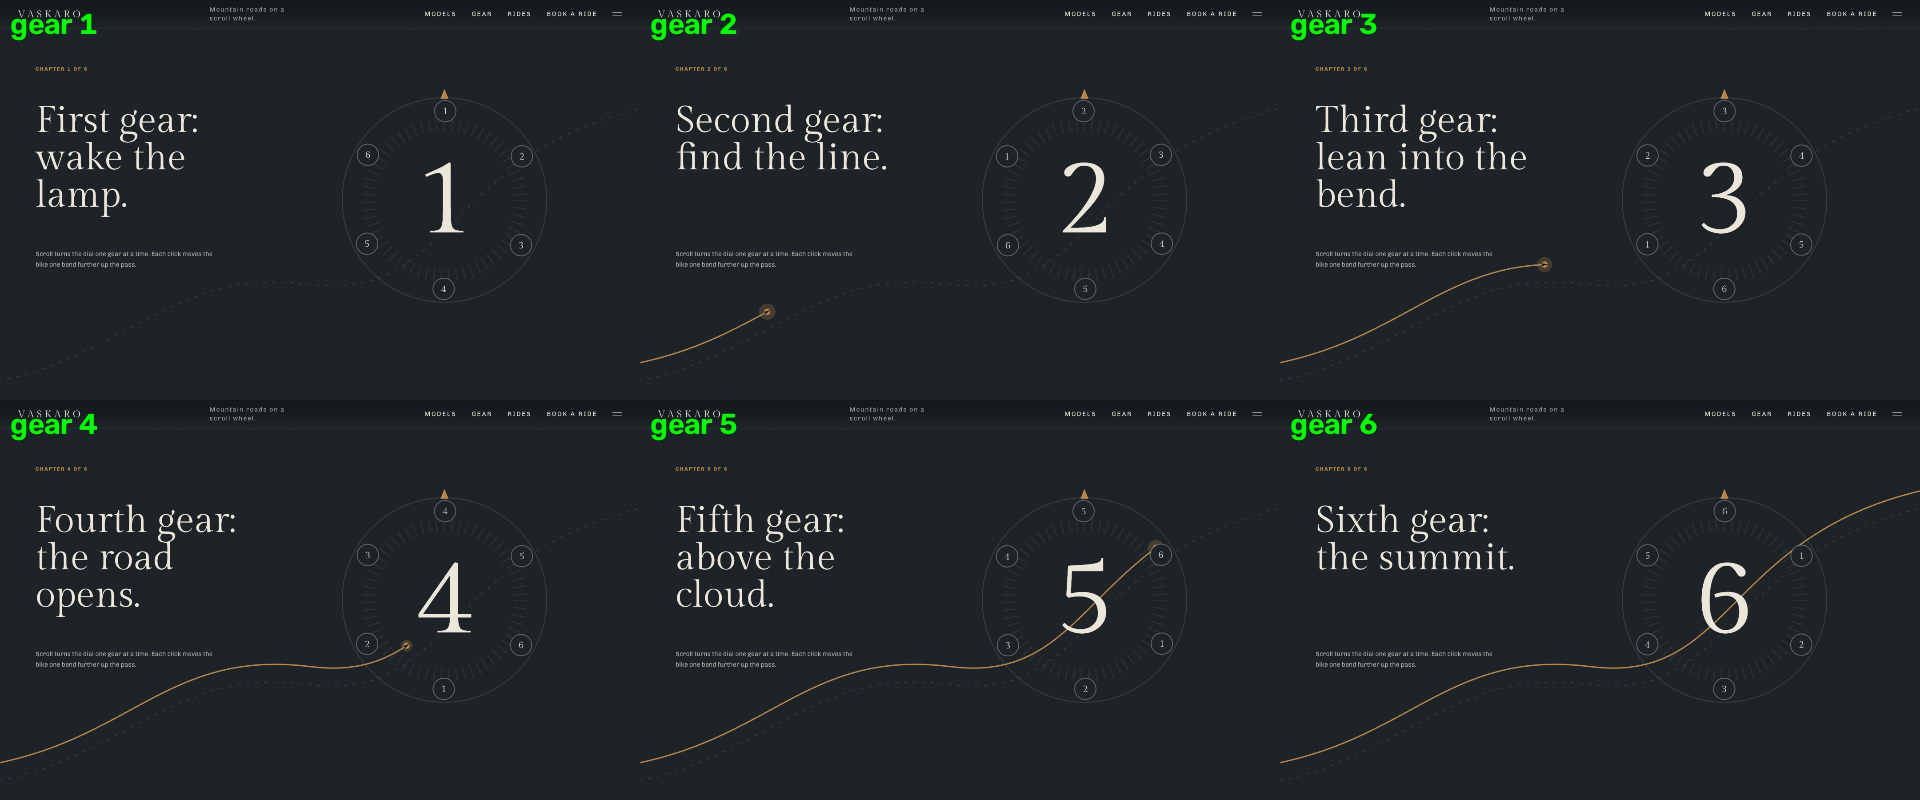
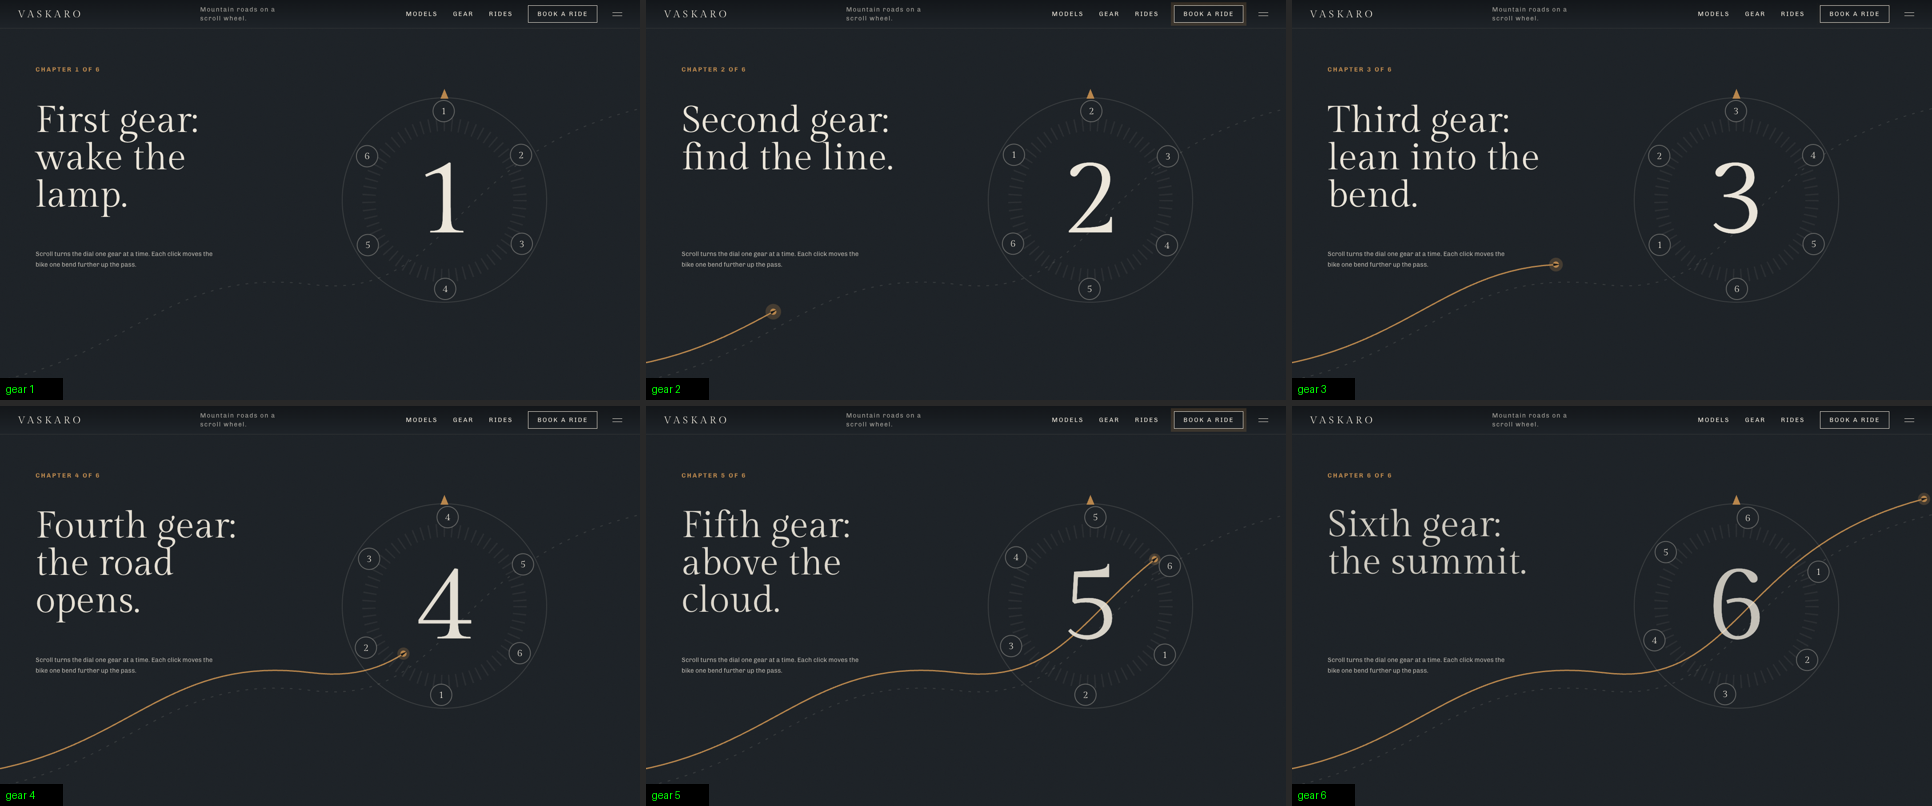
Round 5 fixes: faster loader gate, frame memory release, cover, sheets

diff --git a/site/components/Loader.tsx b/site/components/Loader.tsx
@@ -1,9 +1,28 @@
 "use client";
 import { useEffect, useRef, useState } from "react";
 import { gsap, prefersReducedMotion } from "@/lib/gsap";
-import { clipProgress, ensureClip } from "@/lib/frames";
+import { clipFrame, ensureClip, frameUrl, getManifest } from "@/lib/frames";
 import { loading } from "@/lib/loading";
 import { HERO_CLIPS } from "../content";
+
+/** The loader's own CSS, inline so it paints with the first HTML (the site stylesheet can arrive seconds later on a slow link). */
+const CSS = `/* LOADER · I-VK1 "Headlight" (custom, new): black screen, a bronze dot lights at the left, a soft beam sweeps the wordmark (letters show only where it has touched),
+   then the beam widens into a hole that floods the screen. --p (sweep, CSS from first paint) and --w (flood, set by Loader.tsx) are the only two values. */
+@property --p { syntax: '<number>'; inherits: true; initial-value: 0; }
+@property --w { syntax: '<number>'; inherits: true; initial-value: 0; }
+.vk-ld { position: fixed; inset: 0; z-index: 300; background: #000; overflow: hidden; animation: vkp .66s cubic-bezier(.4,0,.35,1) .1s forwards;
+  -webkit-mask-image: radial-gradient(circle at 50% 50%, transparent calc(var(--w) * 1300px - 300px), #000 calc(var(--w) * 1300px)); mask-image: radial-gradient(circle at 50% 50%, transparent calc(var(--w) * 1300px - 300px), #000 calc(var(--w) * 1300px)); }
+@keyframes vkp { to { --p: 1; } }
+.vk-ld-dot { position: absolute; left: 96px; top: 450px; width: 12px; height: 12px; margin: -6px 0 0 -6px; border-radius: 50%; background: #E9B677; box-shadow: 0 0 24px 8px rgba(184,133,74,.75), 0 0 80px 24px rgba(184,133,74,.35); animation: vkdot .2s ease-out both, vkdotp .32s ease-in-out .2s infinite alternate; }
+@keyframes vkdotp { from { box-shadow: 0 0 18px 5px rgba(184,133,74,.55), 0 0 60px 16px rgba(184,133,74,.2); } to { box-shadow: 0 0 30px 12px rgba(184,133,74,.9), 0 0 110px 34px rgba(184,133,74,.45); } }
+@keyframes vkdot { from { opacity: 0; transform: scale(.3); } to { opacity: 1; transform: none; } }
+.vk-ld-beam { position: absolute; inset: 0; filter: blur(22px); animation: vkbeamp .32s ease-in-out infinite alternate; }
+@keyframes vkbeamp { from { opacity: .62; } to { opacity: 1; } }
+.vk-ld-beam i { position: absolute; inset: 0; background: linear-gradient(90deg, rgba(184,133,74,.6), rgba(184,133,74,0));
+  clip-path: polygon(96px 50%, calc(96px + var(--p) * 1100px) 18%, calc(96px + var(--p) * 1100px) 82%); }
+.vk-ld-word { position: absolute; inset: 0; display: grid; place-items: center; font: 400 64px 'Gilda Display'; color: #EDE7DB; letter-spacing: .34em; padding-left: .34em; text-shadow: 0 0 26px rgba(184,133,74,.55);
+  -webkit-mask-image: linear-gradient(90deg, #000 calc(var(--p) * 1100px - 20px), transparent calc(var(--p) * 1100px + 110px)); mask-image: linear-gradient(90deg, #000 calc(var(--p) * 1100px - 20px), transparent calc(var(--p) * 1100px + 110px)); }
+.vk-ld-word span { display: block; padding-left: .34em; }`;
 
 /** Tells the hero (and anything else) the loader is opening: the hook types in, the arc draws. */
 export const OPEN_EVENT = "vk:open";
@@ -12,7 +31,7 @@ export const hasOpened = () => typeof window !== "undefined" && (window as unkno
 /**
  * Loader (I-VK1 "Headlight", custom): a bronze dot lights at the left, a soft beam sweeps VASKARO (letters show only where it has touched),
  * then the beam widens until it floods the screen and the plate opens onto the hero. The sweep is CSS (--p, from the first paint);
- * the flood is one tween of --w. About 1.15 s: the flood starts at 0.75 s (waits only if the first frames are late). Sets `data-loader` so ?record=1 starts its clock after it.
+ * the flood is one tween of --w. About 1.15 s: the flood starts at 0.75 s (waits only until the first hero frame is in and the fonts are ready). Sets `data-loader` so ?record=1 starts its clock after it.
  */
 export default function Loader() {
   const root = useRef<HTMLDivElement>(null);
@@ -30,8 +49,17 @@ export default function Loader() {
       return;
     }
     const el = root.current!;
-    ensureClip(HERO_CLIPS[0]);
-    const minAt = performance.now() + 750;
+    // frame 0 first, alone (the page also preloads it in the <head>): then the clip streams in and frame 0 comes from the cache
+    const first = () => ensureClip(HERO_CLIPS[0]);
+    const im = new Image();
+    im.onload = im.onerror = first;
+    im.src = `${HERO_CLIPS[0]}/frame_0001.webp`;
+    // the sweep is a CSS animation that starts when the stylesheet lands (late on a slow link): count the 0.75 s from there
+    const sweepMs = () => {
+      const a = el.getAnimations().find((x) => (x as CSSAnimation).animationName === "vkp");
+      return a ? Number(a.currentTime ?? 0) : performance.now() - t0;
+    };
+    const t0 = performance.now();
     let lifted = false;
     const lift = () => {
       if (lifted) return;
@@ -44,8 +72,16 @@ export default function Loader() {
         onComplete: () => { setGone(true); loading.markFinished(); },
       });
     };
+    // ready = the first hero frame is decoded and the two fonts the hero uses are in (checked once the site stylesheet has landed);
+    // the rest of clip 1 keeps streaming behind the hero
+    let fontsOk = false, kicked = false;
+    const cssIn = () => [...document.querySelectorAll('link[rel="stylesheet"]')].every((l) => (l as HTMLLinkElement).sheet);
     const poll = setInterval(() => {
-      if (performance.now() >= minAt && clipProgress(HERO_CLIPS[0]) > 0.2) { clearInterval(poll); lift(); }
+      if (!kicked && cssIn()) {
+        kicked = true;
+        Promise.all([document.fonts.load('400 64px "Gilda Display"'), document.fonts.load('700 14px "Chivo Variable"')]).then(() => { fontsOk = true; }, () => { fontsOk = true; });
+      }
+      if (sweepMs() >= 750 && fontsOk && clipFrame(HERO_CLIPS[0], 0)) { clearInterval(poll); lift(); }
     }, 40);
     const hard = setTimeout(() => { clearInterval(poll); lift(); }, 7000);
     return () => { clearInterval(poll); clearTimeout(hard); };
@@ -54,6 +90,7 @@ export default function Loader() {
   if (gone) return null;
   return (
     <div ref={root} data-loader className="vk-ld" aria-hidden>
+      <style>{CSS}</style>
       <div className="vk-ld-beam"><i /></div>
       <div className="vk-ld-word"><span>VASKARO</span></div>
       <div className="vk-ld-dot" />

diff --git a/site/site.css b/site/site.css
@@ -137,23 +137,7 @@ html { overflow-x: clip; }
 .vk-roads .rbar i { position: absolute; left: 0; top: 0; height: 2px; background: #B8854A; width: 0; }
 .vk-roads .rfoot #rname { min-width: 300px; text-align: right; color: #B8854A; }
 
-/* LOADER · I-VK1 "Headlight" (custom, new): black screen, a bronze dot lights at the left, a soft beam sweeps the wordmark (letters show only where it has touched),
-   then the beam widens into a hole that floods the screen. --p (sweep, CSS from first paint) and --w (flood, set by Loader.tsx) are the only two values. */
-@property --p { syntax: '<number>'; inherits: true; initial-value: 0; }
-@property --w { syntax: '<number>'; inherits: true; initial-value: 0; }
-.vk-ld { position: fixed; inset: 0; z-index: 300; background: #000; overflow: hidden; animation: vkp .66s cubic-bezier(.4,0,.35,1) .1s forwards;
-  -webkit-mask-image: radial-gradient(circle at 50% 50%, transparent calc(var(--w) * 1300px - 300px), #000 calc(var(--w) * 1300px)); mask-image: radial-gradient(circle at 50% 50%, transparent calc(var(--w) * 1300px - 300px), #000 calc(var(--w) * 1300px)); }
-@keyframes vkp { to { --p: 1; } }
-.vk-ld-dot { position: absolute; left: 96px; top: 450px; width: 12px; height: 12px; margin: -6px 0 0 -6px; border-radius: 50%; background: #E9B677; box-shadow: 0 0 24px 8px rgba(184,133,74,.75), 0 0 80px 24px rgba(184,133,74,.35); animation: vkdot .2s ease-out both, vkdotp .32s ease-in-out .2s infinite alternate; }
-@keyframes vkdotp { from { box-shadow: 0 0 18px 5px rgba(184,133,74,.55), 0 0 60px 16px rgba(184,133,74,.2); } to { box-shadow: 0 0 30px 12px rgba(184,133,74,.9), 0 0 110px 34px rgba(184,133,74,.45); } }
-@keyframes vkdot { from { opacity: 0; transform: scale(.3); } to { opacity: 1; transform: none; } }
-.vk-ld-beam { position: absolute; inset: 0; filter: blur(22px); animation: vkbeamp .32s ease-in-out infinite alternate; }
-@keyframes vkbeamp { from { opacity: .62; } to { opacity: 1; } }
-.vk-ld-beam i { position: absolute; inset: 0; background: linear-gradient(90deg, rgba(184,133,74,.6), rgba(184,133,74,0));
-  clip-path: polygon(96px 50%, calc(96px + var(--p) * 1100px) 18%, calc(96px + var(--p) * 1100px) 82%); }
-.vk-ld-word { position: absolute; inset: 0; display: grid; place-items: center; font: 400 64px 'Gilda Display'; color: #EDE7DB; letter-spacing: .34em; padding-left: .34em; text-shadow: 0 0 26px rgba(184,133,74,.55);
-  -webkit-mask-image: linear-gradient(90deg, #000 calc(var(--p) * 1100px - 20px), transparent calc(var(--p) * 1100px + 110px)); mask-image: linear-gradient(90deg, #000 calc(var(--p) * 1100px - 20px), transparent calc(var(--p) * 1100px + 110px)); }
-.vk-ld-word span { display: block; padding-left: .34em; }
+/* LOADER · I-VK1 Headlight: its CSS is inline in components/Loader.tsx so the sweep starts at first paint, before this file arrives. */
 
 /* HERO hook line (typed in when the loader opens) */
 .hook { position: absolute; left: 140px; top: 352px; text-shadow: 0 2px 16px #000c; font: italic 400 26px 'Gilda Display'; color: #EDE7DB; letter-spacing: .01em; white-space: nowrap; }

diff --git a/components/video/FrameScrub.tsx b/components/video/FrameScrub.tsx
@@ -269,12 +269,14 @@ function TimelineScrub({ segs, clipOrder, stillAt = 0.1, onProgress, lead = 0, h
     };
 
     const paint = (x: number) => {
-      ctx.clearRect(0, 0, cv.width, cv.height);
+      // clear lazily: if no layer has a frame yet (a clip just restarted) the last picture stays instead of a blank canvas
+      let cleared = false;
+      const draw = (im: HTMLImageElement, al: number) => { if (!cleared) { ctx.clearRect(0, 0, cv.width, cv.height); cleared = true; } drawImg(im, al); };
       let dominant: [string, number] | null = null;
       const info: [string, number, number][] = [];
       for (const L of layersAt(segs, tl!, x)) {
         const sg = segs[L.i];
-        if ("img" in sg) { const im = getStill(sg.img); if (im) drawImg(im, L.alpha); continue; }
+        if ("img" in sg) { const im = getStill(sg.img); if (im) draw(im, L.alpha); continue; }
         ensureClip(sg.clip); // a clip dropped while far away restarts the moment any of it is on screen (jump back from the end)
         const n = counts[L.i];
         let f = L.t * (n - 1);
@@ -283,9 +285,9 @@ function TimelineScrub({ segs, clipOrder, stillAt = 0.1, onProgress, lead = 0, h
         info.push([sg.clip, +f.toFixed(3), +L.alpha.toFixed(3)]);
         const f0 = Math.floor(f), m = f - f0;
         const a = clipFrame(sg.clip, f0);
-        if (a) drawImg(a, L.alpha);
+        if (a) draw(a, L.alpha);
         const b = m > 0.02 && f0 + 1 < n ? clipFrame(sg.clip, f0 + 1) : undefined;
-        if (b && b !== a) drawImg(b, L.alpha * m);
+        if (b && b !== a) draw(b, L.alpha * m);
         dominant = [sg.clip, L.t];
       }
       ctx.globalAlpha = 1;

diff --git a/site/Page.tsx b/site/Page.tsx
@@ -1,3 +1,9 @@
+import { preload } from "react-dom";
+import { HERO_CLIPS } from "./content";
+// @ts-expect-error font files import as a URL string (no type declaration for .woff2)
+import gildaUrl from "@fontsource/gilda-display/files/gilda-display-latin-400-normal.woff2";
+// @ts-expect-error same
+import chivoUrl from "@fontsource-variable/chivo/files/chivo-latin-wght-normal.woff2";
 import Loader from "./components/Loader";
 import Nav from "./components/Nav";
 import Hero from "./components/Hero";
@@ -11,6 +17,9 @@ import Footer from "./components/Footer";
 import VCursor from "./components/VCursor";
 
 export default function Page() {
+  // the hero's first frame downloads next to the page code, not after it
+  for (const f of [gildaUrl, chivoUrl]) preload(typeof f === "string" ? f : f.src, { as: "font", type: "font/woff2", crossOrigin: "anonymous" });
+  preload(`${HERO_CLIPS[0]}/frame_0001.webp`, { as: "image", fetchPriority: "high" });
   return (
     <main>
       <Loader />

diff --git a/lib/frames.ts b/lib/frames.ts
@@ -161,7 +161,7 @@ export function viewClip(folder: string, frac: number) {
   if (at < 0) return;
   clipOrder.forEach((o, k) => {
     const s = store.get(o);
-    if (s && Math.abs(k - at) > 1 && s.started) { s.gen++; s.imgs = []; s.loaded = 0; s.started = false; s.man = undefined; }
+    if (s && s.started && (k > at + 1 || k < at - 1 || (k === at - 1 && frac > 0.3))) { s.gen++; s.imgs = []; s.loaded = 0; s.started = false; s.man = undefined; }
   });
   if (frac > 0.5 && at < clipOrder.length - 1) ensureClip(clipOrder[at + 1]);
 }

diff --git a/docs/LESSONS.md b/docs/LESSONS.md
@@ -202,3 +202,6 @@ Short rules learned the hard way on Days 1–7. `/new-site` and every round star
 165. **Run a text audit script at 1440×900 before the polish round** (font size < 14, contrast < 4.5 vs the nearest solid background, elements past the right edge): it found 9–11px eyebrows, SAMPLE tags, footer headings and dimmed steps that the eye missed. Nav text over a flipping background and outlined ghost words are false positives.
 166. **A decorative icon that looks clickable (a burger with no menu) gets `aria-hidden`**, so Tab does not stop on nothing (Day 23).
 
+167. **The loader ends on "first hero frame decoded + fonts ready + 0.75 s of sweep", never on a whole clip or a long timeout** (Day 23). On a slow link the floor is the page JS (about 330 KB); everything else must not queue in front of it. Put the loader's own CSS inline in the component (the site stylesheet can arrive seconds late), `preload` the first frame and the two hero fonts in the page head, and count the sweep from when its CSS animation starts. Measured at 1.5 Mbps / 150 ms: hero 4.2 s → loader lifts at about 3.0 s, clear at 3.4 s.
+168. **Frame memory: keep only the current and next clip decoded**; drop the previous clip once past 30% of the current one, and clear the canvas lazily (only when a layer has a frame) so a clip that is restarting shows the last picture, not a blank. Test scroll-back by hashing the canvas at the same scroll position before and after a trip to the bottom.
+169. **Measure memory per renderer process, not the sum of every playwright process** (the sum counts a spare renderer and doubles the number). Day 23: heaviest renderer 431 MB at load, 566 MB peak top→bottom→top.

diff --git a/site/DESIGN.md b/site/DESIGN.md
@@ -132,3 +132,8 @@ Focus rings: bronze 3px outline on every link, button, road and gear card. Hover
 ## Prompts (as run)
 
 Left empty for the user to paste into. Format: asset ID · date · prompt (word for word) · attachments.
+
+### Round 5 fixes (loader gate, memory, cover)
+- Loader lifts when the first hero frame is decoded, the two hero fonts are loaded and the 0.75 s sweep has played; the other 107 frames of clip 1 stream in behind the hero. Loader CSS is inline in `Loader.tsx`; first frame and fonts are preloaded in the head (`Page.tsx`).
+- Frames: current and next clip only; the previous one is released past 30%. The canvas keeps the last picture if a clip has no frame yet.
+- Cover: `recordings/day-23-cover.jpg`, keyword MOTO, Passo cut-out as the product.
